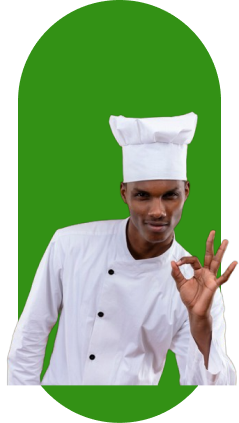
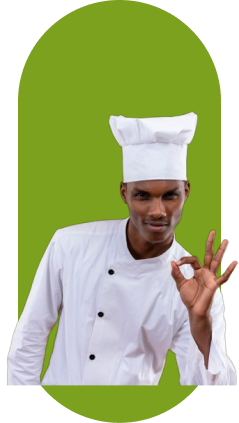
build: Worked on the home page

diff --git a/src/components/Navbar.jsx b/src/components/Navbar.jsx
@@ -1,7 +1,7 @@
-import logo from "../assets/logo.png";
+import logo from "../assets/logo1.png";
 import knife from "../assets/knife.svg";
 import fork from "../assets/fork.svg";
-import { Link } from "react-router-dom";
+import { NavLink } from "react-router-dom";
 import { useState } from "react";
 
 export default function NavBar() {
@@ -14,34 +14,65 @@ export default function NavBar() {
   return (
     <nav className="fixed z-20 top-0 px-4 lg:px-20 py-4 h-[100px]  w-full flex justify-between items-center bg-cream border-none">
       <div>
-        <Link to="/" className="" >
+        <NavLink to="/">
           <img src={logo} alt="logo" className="w-16 z-20" />
-        </Link>
+        </NavLink>
       </div>
 
       {/* ------------------------- Desktop Navbar ------------------------ */}
-      <ul className="font-handlee font-bold text-xl hidden lg:flex">
-        <Link to="/">
-          <li className="py-2 mr-5 ">Home</li>
-        </Link>
-        <Link to="/about">
-          <li className="py-2 mx-5">About Us</li>
-        </Link>
-        <Link to="/gallery">
-          <li className="py-2 mx-5">Gallery</li>
-        </Link>
-        <Link to="/pricing">
-          <li className="py-2 mx-5">Services & Pricing</li>
-        </Link>
-        <Link to="/contact">
-          <li className="py-2 ml-5 border-2 border-green px-6 rounded-full">
+      <ul className="font-handlee text-xl font-semibold hidden lg:flex items-center">
+        <NavLink
+          exact
+          to="/"
+          className={({ isActive }) =>
+            isActive ? "text-green py-2 mx-5 nav-active" : "nav-link py-2 mr-5"
+          }
+        >
+          <li className="">Home</li>
+        </NavLink>
+        <NavLink
+          to="/about"
+          className={({ isActive }) =>
+            isActive ? "text-green py-2 mx-5 nav-active" : "nav-link py-2 mx-5"
+          }
+        >
+          <li className="">About Us</li>
+        </NavLink>
+        <NavLink
+          to="/gallery"
+          className={({ isActive }) =>
+            isActive ? "text-green py-2 mx-5 nav-active" : "nav-link py-2 mx-5"
+          }
+        >
+          <li className="">Gallery</li>
+        </NavLink>
+        <NavLink
+          to="/pricing"
+          className={({ isActive }) =>
+            isActive ? "text-green py-2 mx-5" : "nav-link py-2 mx-5"
+          }
+        >
+          <li className="">Services & Pricing</li>
+        </NavLink>
+        <NavLink
+          to="/contact"
+          className={({ isActive }) =>
+            isActive
+              ? "text-white bg-green border-green border-2 rounded-full py-2 px-8 ml-5 "
+              : "py-2 px-8 ml-5  border-2 border-green rounded-full"
+          }
+        >
+          <li className="">
             Contact Us
           </li>
-        </Link>
+        </NavLink>
       </ul>
 
       {/* -------------------------------- Mobile Navbar -------------------------------- */}
-      <div className="block lg:hidden h-[35px] w-[45px] relative z-20" onClick={handleClick}>
+      <div
+        className="block lg:hidden h-[35px] w-[45px] relative z-20"
+        onClick={handleClick}
+      >
         <img
           src={fork}
           alt="fork"
@@ -58,24 +89,30 @@ export default function NavBar() {
         />
       </div>
 
-      <ul className={`fixed lg:hidden w-full h-screen bg-cream top-0 z-10 flex flex-col items-center justify-center ${isOpen ? 'opacity-100' : 'opacity-0 pointer-events-none'} transition-opacity duration-500 ease-in-out`}>
-        <Link to="/" onClick={handleClick}>
+      <ul
+        className={`fixed lg:hidden w-full h-screen bg-cream top-0 z-10 flex flex-col items-center justify-center ${
+          isOpen ? "opacity-100" : "opacity-0 pointer-events-none"
+        } transition-opacity duration-500 ease-in-out`}
+      >
+        <NavLink to="/" onClick={handleClick}>
           <li className="font-handlee text-3xl font-bold px-8 mb-8">Home</li>
-        </Link>
-        <Link to="/about" onClick={handleClick}>
-          <li className="font-handlee text-3xl font-bold px-8 mb-8">About Us</li>
-        </Link>
-        <Link to="/gallery" onClick={handleClick}>
-          <li className="font-handlee text-3xl font-bold px-8 mb-8">Gallery</li>
-        </Link>
-        <Link to="/pricing" onClick={handleClick}>
-          <li className="font-handlee text-3xl font-bold px-8 mb-8">Services & Pricing</li>
-        </Link>
-        <Link to="/contact" onClick={handleClick}>
-          <li className="font-handlee text-3xl font-bold px-8">
-            Contact Us
+        </NavLink>
+        <NavLink to="/about" onClick={handleClick}>
+          <li className="font-handlee text-3xl font-bold px-8 mb-8">
+            About Us
           </li>
-        </Link>
+        </NavLink>
+        <NavLink to="/gallery" onClick={handleClick}>
+          <li className="font-handlee text-3xl font-bold px-8 mb-8">Gallery</li>
+        </NavLink>
+        <NavLink to="/pricing" onClick={handleClick}>
+          <li className="font-handlee text-3xl font-bold px-8 mb-8">
+            Services & Pricing
+          </li>
+        </NavLink>
+        <NavLink to="/contact" onClick={handleClick}>
+          <li className="font-handlee text-3xl font-bold px-8">Contact Us</li>
+        </NavLink>
       </ul>
     </nav>
   );

diff --git a/src/components/AboutIntro.jsx b/src/components/AboutIntro.jsx
@@ -1,42 +1,22 @@
-import img from "../assets/img.png";
+import introImg from "../assets/introImg.jpg";
 import rarrow from "../assets/rarrow.svg";
+import { Link } from "react-router-dom";
 
 export default function AboutIntro() {
   return (
-    // <div className="relative -z-10 flex items-center justify-end px-24 h-screen bg-cream">
-    //   <div className="w-[600px] backdrop-blur-lg py-12 px-8 absolute top-1/2 left-[7rem] transform  -translate-y-1/2 shadow-xl">
-    //     <h1 className="text-5xl font-labrada font-semibold">About Us</h1>
-    //     <p className="font-handlee text-xl mt-8">
-    //       Welcome to New and Brisk Culinary, where tradition meets innovation.
-    //       Our mission is to inspire a love for culinary arts through an
-    //       unforgettable experience led by experienced chefs. Join us on a
-    //       flavorful journey where passion and precision converge.
-    //     </p>
-    //     <div className="flex flex-row items-center mt-4">
-    //       <button className="font-bold font-handlee text-xl mr-3">
-    //         Read More
-    //       </button>
-    //       <img src={rarrow} alt="arrow" className=""/>
-    //     </div>
-    //   </div>
-    //   <div className="w-[65%]">
-    //     <img src={img} alt="image" className='w-full h-[600px]'/>
-    //   </div>
-    // </div>
-
     <div className="flex items-center flex-col-reverse lg:flex-row px-8 py-12 lg:px-24 lg:py-16 bg-cream">
-      <div className="w-full lg:w-2/5 relative mt-12 lg:mt-0 flex md:justify-center lg:justify-start">
-        <img src={img} alt="img" className="md:h-[550px] w-full md:w-3/5 lg:w-4/5" />
+      <div className="w-full lg:w-1/2 relative mt-12 lg:mt-0 flex md:justify-center lg:justify-start">
+        <img src={introImg} alt="img" className="md:h-[550px] w-full md:w-3/5 lg:w-4/5" />
       </div>
-      <div className="lg:w-3/5">
+      <div className="lg:w-1/2">
         <h1 className="text-5xl font-labrada font-semibold">About Us</h1>
         <p className="font-handlee text-xl mt-8">
-        Welcome to New and Brisk Culinary, a culinary haven where tradition meets with innovation. Our experienced chefs passionately guide you through a flavorful journey that transcends the ordinary. Each dish is a masterpiece, blending time-honored techniques with cutting-edge creativity. Join us for an unforgettable dining experience, where the love for culinary arts takes center stage in every bite.
+        Welcome to <span className="font-bold">New and Brisk Culinary</span>, where tradition meets innovation. Our experienced chefs guide you through a flavorful journey that goes beyond the ordinary. Each dish, a masterpiece, blends time-honored techniques with cutting-edge creativity. Join us for an unforgettable dining experience, where the love for culinary arts takes center stage in every bite.
         </p>
         <div className="flex flex-row items-center mt-6">
-          <button className="font-bold font-handlee text-xl mr-3 duration-200 hover:mr-4">
+          <Link to='/about' className="font-bold font-handlee text-xl mr-3 duration-200 hover:mr-4 text-green">
             Read More
-          </button>
+          </Link>
           <img src={rarrow} alt="arrow" className="" />
         </div>
       </div>

diff --git a/src/components/Footer.jsx b/src/components/Footer.jsx
@@ -1,5 +1,5 @@
 import { Link } from "react-router-dom";
-import Logo from "../assets/logo.png";
+import Logo from "../assets/logo1.png";
 import instagram from "../assets/instagram.svg";
 import location from "../assets/location.svg";
 import facebook from "../assets/facebook.svg";
@@ -21,10 +21,9 @@ export default function Footer() {
             Buzango NEPA Road. Kubwa, Abuja
           </p>
         </div>
-        <div className="flex justify-between items-start w-[150px] ">
+        <div className="flex justify-between items-start w-[100px] ">
           <img src={instagram} alt="" className="w-5 lg:w-8" />
           <img src={facebook} alt="" className="w-5 lg:w-8" />
-          <img src={twitter} alt="" className="w-5 lg:w-8" />
         </div>
       </div>
       <ul className="hidden lg:flex justify-between font-handlee font-bold text-xl">

diff --git a/src/App.jsx b/src/App.jsx
@@ -1,4 +1,5 @@
-import { BrowserRouter, Routes, Route } from "react-router-dom"
+import { useEffect } from "react";
+import { BrowserRouter, Routes, Route, useLocation } from "react-router-dom";
 
 import Navbar from "./components/Navbar"
 import HomePage from './pages/HomePage'
@@ -8,9 +9,21 @@ import PricingPage from './pages/PricingPage'
 import ContactPage from './pages/ContactPage'
 import Footer from './components/Footer'
 
+function ScrollToTop() {
+  const {pathname} = useLocation();
+
+  useEffect(() => {
+    window.scrollTo(0, 0); 
+  }, [pathname])
+
+  return null;
+}
+
 export default function App(){
+
   return(
     <BrowserRouter>
+    <ScrollToTop />
        <Navbar />
 
        <Routes>

diff --git a/src/index.css b/src/index.css
@@ -4,7 +4,49 @@
 @tailwind components;
 @tailwind utilities;
 
+*{
+  scroll-behavior: smooth;
+  box-sizing: border-box;
+}
 
 .bag{
   color: #fdfaf0;
 }
+
+.nav-link{
+  position: relative;
+}
+
+.nav-link::before {
+  content: "";
+  background: #7BA11F;
+  display: block;
+  position: absolute;
+  bottom: -3px;
+  left: 0;
+  width: 0;
+  height: 3px;
+  transition: all 0.3s ease-in-out;
+}
+
+.nav-link:hover::before {
+  width: 100%;
+}
+
+.nav-active{
+  position: relative;
+}
+
+.nav-active::before{
+  content: "";
+  display: block;
+  position: absolute;
+  bottom: -3px;
+  left: 0;
+  left: 0;
+  height: 3px;
+  width: 100%;
+  background: #7BA11F;
+}
+
+

diff --git a/src/components/Testimonials.jsx b/src/components/Testimonials.jsx
@@ -12,12 +12,12 @@ import { Pagination, Autoplay } from "swiper/modules";
 export default function Testimonials() {
   return (
     <div className="px-8 py-8 lg:px-32 lg:py-20 bg-cream">
-      <h1 className="font-labrada text-5xl font-bold mb-12">Testimonials</h1>
+      <h1 className="font-labrada text-5xl font-bold mb-16">Testimonials</h1>
       <Swiper
         slidesPerView={"auto"}
         spaceBetween={30}
         autoplay={{
-          delay: 2500,
+          delay: 3500,
           disableOnInteraction: false,
         }}
         loop={true}

diff --git a/tailwind.config.js b/tailwind.config.js
@@ -7,11 +7,11 @@ export default {
   theme: {
     extend: {
       colors: {
-        'green': '#339115',
+        'green': '#7BA11F',
         'cream' : '#FDF7E4',
       },
       backgroundColor: {
-        'green': '#339115',
+        'green': '#7BA11F',
         'cream' : '#fdfaf0',
       },
       fontFamily: {
